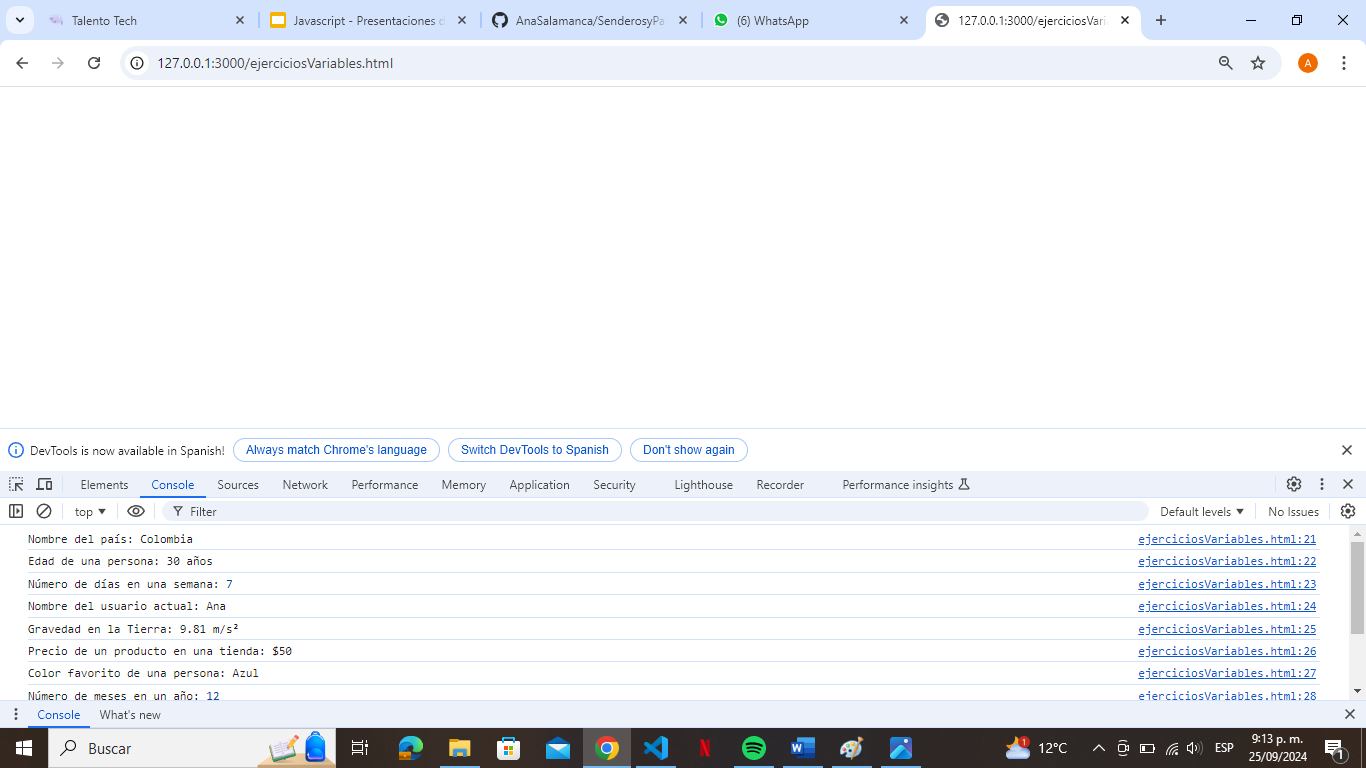
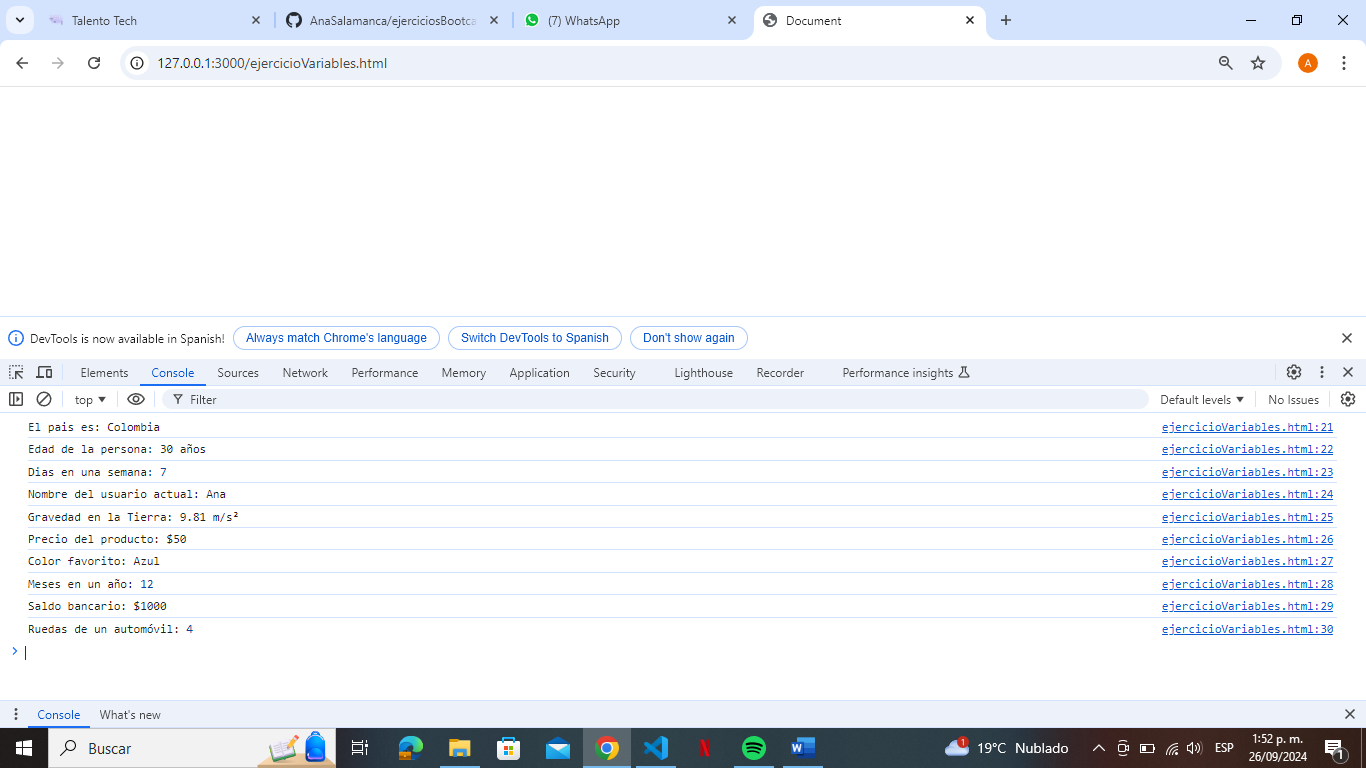
Se corrigen errores

diff --git a/ejercicioVariables.html b/ejercicioVariables.html
@@ -18,16 +18,16 @@
         let dineroCuenta = 1000;
         const ruedasAutomovil = 4
         
-        console.log("Nombre del país:", nombrePais);
-        console.log("Edad de una persona:", `${edadPersona} años`);
-        console.log("Número de días en una semana:", diasSemana);
+        console.log("El pais es:", nombrePais);
+        console.log("Edad de la persona:", `${edadPersona} años`);
+        console.log("Dias en una semana:", diasSemana);
         console.log("Nombre del usuario actual:", nombreUsuario);
         console.log("Gravedad en la Tierra:", `${gravedadTierra} m/s²`);
-        console.log("Precio de un producto en una tienda:", `$${precioProducto}`);
-        console.log("Color favorito de una persona:", colorFavorito);
-        console.log("Número de meses en un año:", mesesAno);
-        console.log("Cantidad de dinero en la cuenta bancaria:", `$${dineroCuenta}`);
-        console.log("Número de ruedas en un automóvil:", ruedasAutomovil);
+        console.log("Precio del producto:", `$${precioProducto}`);
+        console.log("Color favorito:", colorFavorito);
+        console.log("Meses en un año:", mesesAno);
+        console.log("Saldo bancario:", `$${dineroCuenta}`);
+        console.log("Ruedas de un automóvil:", ruedasAutomovil);
     </script>
 </body>
 </html>
